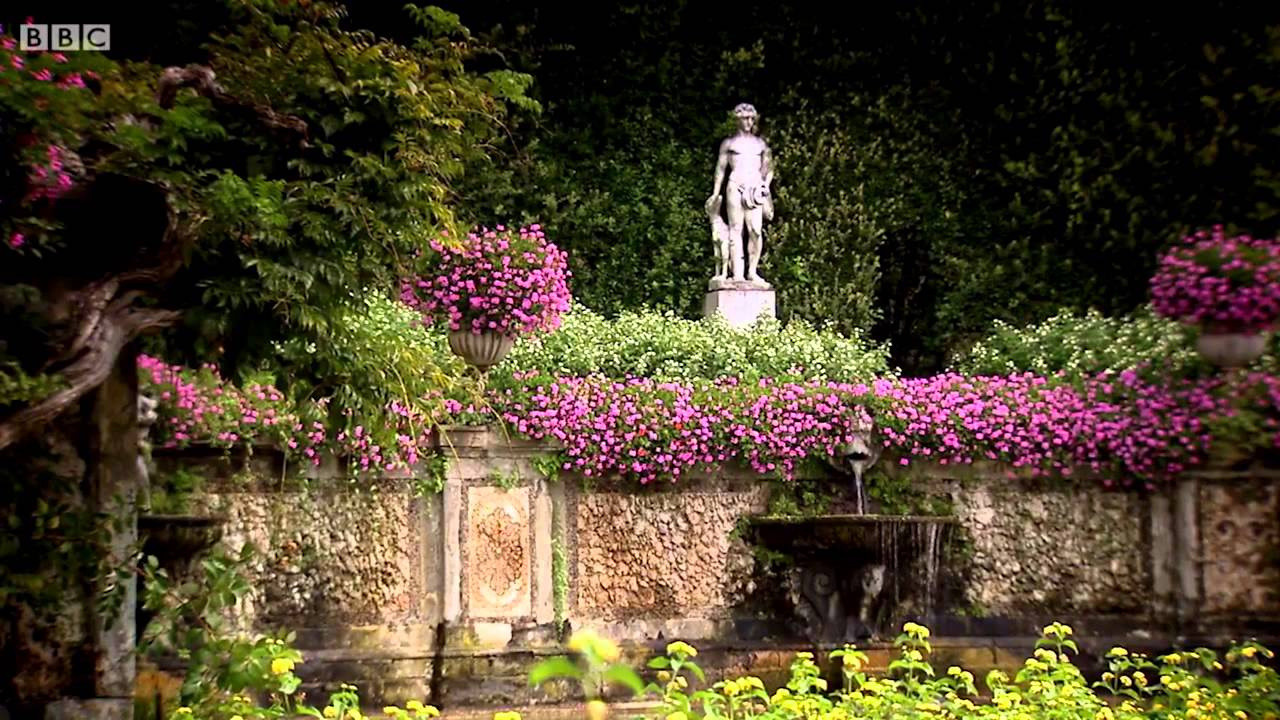
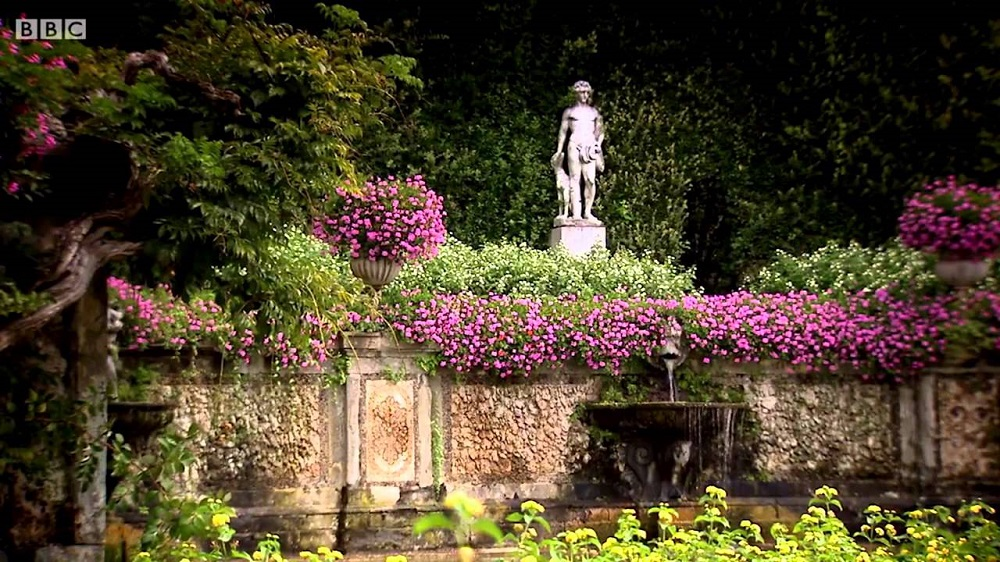
shrink image files

Changed region(s): [[0.62, 0.484, 0.651, 0.5142]]

diff --git a/index.html b/index.html
@@ -101,28 +101,28 @@
         </div>
         <div class="carousel autoplay center">
           <div>
-            <img class="carousel-img" src="assets/images/1920x1080-hobbit.jpg" alt="circular home entrance">
+            <img class="carousel-img" src="assets/images/hobbit.jpg" alt="circular home entrance">
           </div>
           <div>
-            <img class="carousel-img" src="assets/images/1920x1080-egor.jpg" alt="throne room">
+            <img class="carousel-img" src="assets/images/egor.jpg" alt="throne room">
           </div>
           <div>
-            <img class="carousel-img" src="assets/images/1920x1080-lvgrm.jpg" alt="living room">
+            <img class="carousel-img" src="assets/images/lvgrm.jpg" alt="living room">
           </div>
           <div>
-            <img class="carousel-img" src="assets/images/1920x1080-maxell.jpg" alt="listening room">
+            <img class="carousel-img" src="assets/images/maxell.jpg" alt="listening room">
           </div>
           <div>
-            <img class="carousel-img" src="assets/images/1920x1080-psychedelic.jpg" alt="sweet dreams">
+            <img class="carousel-img" src="assets/images/psychedelic.jpg" alt="sweet dreams">
           </div>
           <div>
-            <img class="carousel-img" src="assets/images/1920x1080-anime-girl.jpg" alt="game room">
+            <img class="carousel-img" src="assets/images/anime-girl.jpg" alt="game room">
           </div>
           <div>
-            <img class="carousel-img" src="assets/images/1920x1080-lion.png" alt="south america room">
+            <img class="carousel-img" src="assets/images/lion.png" alt="south america room">
           </div>
           <div>
-            <img class="carousel-img" src="assets/images/1920x1080-cartoon.jpg" alt="home alone">
+            <img class="carousel-img" src="assets/images/cartoon.jpg" alt="home alone">
           </div>
         </div>
       </div>
